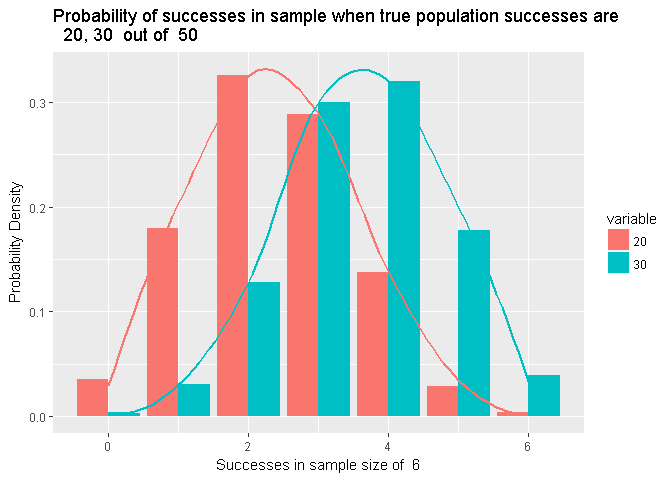
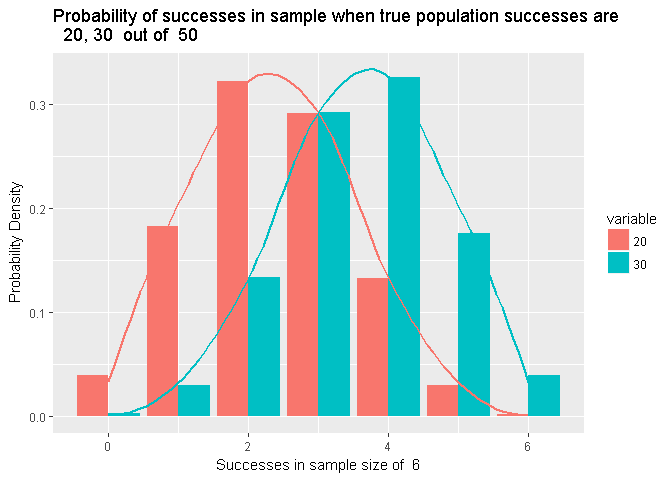
sample pdf plot

diff --git a/hypergeometric_MC_ntbk.md b/hypergeometric_MC_ntbk.md
@@ -83,37 +83,37 @@ print(aggregated_data)
 ```
 
     ##       0    1    2    3    4    5    6    7    8    9   10   11   12   13
-    ## 0 10000 8796 7781 6726 5968 5159 4486 3818 3310 2768 2406 1970 1781 1414
-    ## 1     0 1204 2091 2956 3376 3875 4071 4297 4308 4280 4163 4048 3773 3620
-    ## 2     0    0  128  305  621  891 1264 1603 1948 2335 2556 2861 3028 3197
-    ## 3     0    0    0   13   35   72  173  269  396  561  777  963 1183 1442
-    ## 4     0    0    0    0    0    3    6   13   35   55   91  141  217  300
-    ## 5     0    0    0    0    0    0    0    0    3    1    7   17   18   27
-    ## 6     0    0    0    0    0    0    0    0    0    0    0    0    0    0
+    ## 0 10000 8804 7724 6777 5908 5138 4477 3868 3254 2892 2454 2012 1781 1447
+    ## 1     0 1196 2164 2877 3416 3821 4053 4161 4250 4113 4168 3951 3817 3556
+    ## 2     0    0  112  333  634  944 1313 1670 2036 2341 2540 2944 3044 3232
+    ## 3     0    0    0   13   42   94  151  278  411  584  736  946 1131 1431
+    ## 4     0    0    0    0    0    3    6   23   47   67   95  143  219  307
+    ## 5     0    0    0    0    0    0    0    0    2    3    7    4    8   26
+    ## 6     0    0    0    0    0    0    0    0    0    0    0    0    0    1
     ##     14   15   16   17   18   19   20   21   22   23   24   25   26   27
-    ## 0 1207 1021  841  721  568  472  357  284  230  169  148  117   79   68
-    ## 1 3316 3004 2788 2530 2342 2011 1795 1591 1324 1182  976  849  697  628
-    ## 2 3420 3438 3511 3449 3508 3414 3256 3095 3011 2847 2589 2392 2152 1959
-    ## 3 1631 1916 2094 2349 2486 2758 2886 3093 3159 3188 3364 3326 3255 3239
-    ## 4  372  557  669  806  929 1084 1379 1542 1798 1969 2166 2393 2652 2699
-    ## 5   52   58   92  141  150  245  291  359  437  582  678  830 1029 1216
-    ## 6    2    6    5    4   17   16   36   36   41   63   79   93  136  191
+    ## 0 1214 1051  862  668  549  445  391  287  215  173  150  111   96   56
+    ## 1 3365 3132 2821 2568 2364 2033 1826 1486 1414 1114  992  851  737  568
+    ## 2 3325 3324 3452 3446 3452 3485 3224 3207 2939 2845 2614 2306 2114 2006
+    ## 3 1662 1905 2121 2388 2475 2698 2912 3068 3167 3231 3381 3415 3345 3230
+    ## 4  372  507  661  798  969 1106 1329 1555 1716 1990 2111 2370 2584 2864
+    ## 5   60   75   79  123  177  215  298  369  504  566  664  819  982 1098
+    ## 6    2    6    4    9   14   18   20   28   45   81   88  128  142  178
     ##     28   29   30   31   32   33   34   35   36   37   38   39   40   41
-    ## 0   41   28   29   13   16    5    6    5    0    1    0    1    0    0
-    ## 1  506  369  305  226  180  143   86   47   41   28   26   10    9    2
-    ## 2 1703 1528 1285 1141  949  795  647  520  387  306  236  155  100   71
-    ## 3 3185 3044 3006 2791 2533 2321 2103 1883 1579 1409 1190  917  777  518
-    ## 4 2994 3134 3202 3384 3511 3546 3549 3524 3378 3265 3092 2876 2583 2313
-    ## 5 1315 1610 1781 2000 2238 2477 2766 3010 3380 3548 3737 3990 4191 4215
-    ## 6  256  287  392  445  573  713  843 1011 1235 1443 1719 2051 2340 2881
+    ## 0   44   37   28   21   13    8    4    2    1    2    0    0    0    0
+    ## 1  431  356  300  242  171  123  114   69   38   28   19   12   10    1
+    ## 2 1708 1488 1332 1135  955  781  675  505  399  309  218  158   95   49
+    ## 3 3226 3095 2924 2810 2547 2297 2070 1838 1663 1425 1164  958  745  584
+    ## 4 3033 3131 3262 3301 3465 3490 3517 3478 3411 3178 3111 2871 2608 2292
+    ## 5 1330 1597 1758 2021 2282 2544 2752 3072 3264 3597 3754 3921 4150 4284
+    ## 6  228  296  396  470  567  757  868 1036 1224 1461 1734 2080 2392 2790
     ##     42   43   44   45   46   47   48   49    50
     ## 0    0    0    0    0    0    0    0    0     0
-    ## 1    1    1    0    0    0    0    0    0     0
-    ## 2   35   13    6    2    0    0    0    0     0
-    ## 3  400  294  153   98   45   12    0    0     0
-    ## 4 1880 1665 1323  960  635  380  113    0     0
-    ## 5 4414 4256 4094 3817 3459 2930 2125 1212     0
-    ## 6 3270 3771 4424 5123 5861 6678 7762 8788 10000
+    ## 1    2    1    0    0    0    0    0    0     0
+    ## 2   47   22   10    5    1    0    0    0     0
+    ## 3  447  288  177  102   34   13    0    0     0
+    ## 4 1999 1625 1303  908  624  310  123    0     0
+    ## 5 4254 4175 4109 3813 3454 2861 2159 1162     0
+    ## 6 3251 3889 4401 5172 5887 6816 7718 8838 10000
 
 Let's create some plots to help visualize the data First we write a function to plot the the distribution of the observed successes in a sample over the true number of successes in the population.
 
@@ -180,7 +180,9 @@ samples_normed['count'] = c(0:(nrow(samples_normed)-1))
 draw_dist_plot(successes, samples_normed, N)
 ```
 
-![](hypergeometric_MC_ntbk_files/figure-markdown_github/unnamed-chunk-12-1.png) If we want to examine a specific number of successes in a sample and find the likelihood of the true number of population successes we can plot the sample and sum the area under the curve. This function does that for the right tail of the distribution.
+![](hypergeometric_MC_ntbk_files/figure-markdown_github/unnamed-chunk-12-1.png)
+
+If we want to examine a specific number of successes in a sample and find the likelihood of the true number of population successes we can plot the sample and sum the area under the curve. This function does that for the right tail of the distribution.
 
 ``` r
 right_tail_plot <- function(df, sample_successes, pop_successes){
